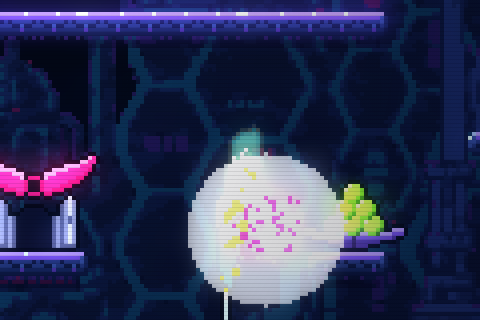
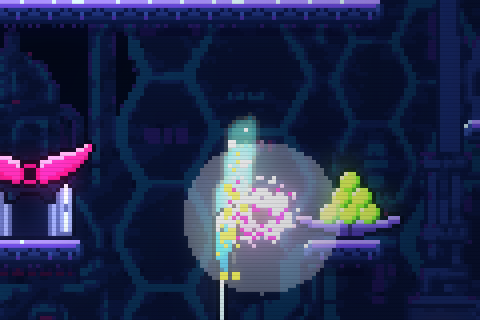
Killer Fuse: winning snail in front of its net, ending hexagon stays centred, Queen flare never a solid disc

diff --git a/games/killer-fuse/src/render/scene.ts b/games/killer-fuse/src/render/scene.ts
@@ -60,6 +60,7 @@ import {
 import {
   circlePoints,
   discHalfWidth,
+  flareAlpha,
   Ghosts,
   particleColor,
   RING_LIFE,
@@ -201,10 +202,13 @@ export class Scene {
     for (const gate of view.gates) this.gate(ctx, gate);
     for (const pile of view.piles) this.pile(ctx, pile);
     // The rider sits astride, its far leg behind the shell; a meal is half inside the mouth.
+    // The nets stand in front of the track, and the snail crawls into its basket; a snail that has won is shown
+    // in front of it, so the ending reads as the snail home and not as a net.
+    const home = view.winner?.kind === "snail" && !view.timeUp;
+    if (home) this.goals(ctx, frame);
     this.units(ctx, frame, (unit) => unit.eaten || unit.riding);
     this.snail(ctx, frame);
-    // The nets stand in front of the track: the snail crawls into its basket.
-    this.goals(ctx, frame);
+    if (!home) this.goals(ctx, frame);
     this.afterImages(ctx, frame);
     this.fallen(ctx, frame);
     this.units(ctx, frame, (unit) => !unit.eaten && !unit.riding);
@@ -961,8 +965,7 @@ export class Scene {
       // White that grows as it fades: a core for a clash, the whole sky round a dying Queen.
       const t = flare.age / flare.life;
       const radius = Math.max(1, Math.round(flare.radius * (0.25 + 0.75 * t)));
-      // Gone fast: what it lit up shows through before it has finished growing.
-      ctx.globalAlpha = (1 - t) ** 2;
+      ctx.globalAlpha = flareAlpha(flare.radius, t);
       ctx.fillStyle = "#ffffff";
       const x = Math.round(flare.x),
         y = Math.round(flare.y);

diff --git a/games/killer-fuse/src/render/hud.ts b/games/killer-fuse/src/render/hud.ts
@@ -5,13 +5,10 @@
  */
 import type { RoundView } from "../engine/index.js";
 import {
-  type Camera,
   hexHalfWidth,
   IRIS_RADIUS,
-  irisCentre,
   irisRadius,
-  project,
-  type Point,
+  STILL,
   victoryLines,
 } from "./hud-model.js";
 import { VIEW_HEIGHT, VIEW_WIDTH } from "./layout.js";
@@ -23,10 +20,6 @@ export interface HudFrame {
   readonly view: RoundView;
   /** Seconds into the ending, or null when there is none to draw: no winner yet, or the page shows its own. */
   readonly ending: number | null;
-  /** The camera the arena under this was drawn through. */
-  readonly camera: Camera;
-  /** The point of the arena that decided the round: the hexagon closes on it. */
-  readonly focus: Point;
 }
 
 /** What the HUD needs of the scene: its text and the colours and sizes of the art. */
@@ -66,8 +59,8 @@ export class Hud {
   ): void {
     const { view } = frame;
     const radius = irisRadius(age);
-    // The hexagon stays on what decided the round as the camera carries that to the middle of the screen.
-    const centre = irisCentre(project(frame.focus, frame.camera));
+    // The hexagon closes on the middle of the screen while the camera carries what decided the round there.
+    const centre = { x: STILL.x, y: STILL.y };
     const ramp = this.art.ramp(winner.team);
     for (let y = 0; y < VIEW_HEIGHT; y += 1) {
       const half = hexHalfWidth(radius, y - centre.y);

diff --git a/games/killer-fuse/tests/render-model.test.ts b/games/killer-fuse/tests/render-model.test.ts
@@ -19,8 +19,6 @@ import {
   hiveSheet,
   IRIS_RADIUS,
   IRIS_SECONDS,
-  IRIS_WORDS,
-  irisCentre,
   irisRadius,
   victoryFocus,
   victoryLines,
@@ -880,14 +878,6 @@ test("the iris is a hexagon that closes and stays on screen with its words", () 
   assert.ok(Math.abs(hexHalfWidth(40, reach) - 20) < 1e-9, "the flat top");
   assert.equal(hexHalfWidth(40, -reach - 0.01), 0);
   assert.equal(hexHalfWidth(40, 10), hexHalfWidth(40, -10));
-  assert.deepEqual(irisCentre({ x: 240, y: 135 }), { x: 240, y: 135 });
-  const corner = irisCentre({ x: 2, y: 3 });
-  assert.equal(corner.x, IRIS_RADIUS);
-  const tall = (IRIS_RADIUS * Math.sqrt(3)) / 2;
-  assert.equal(corner.y, Math.round(tall + IRIS_WORDS), "room for the title");
-  const far = irisCentre({ x: 900, y: 900 });
-  assert.equal(far.x, 480 - IRIS_RADIUS);
-  assert.ok(far.y + tall <= 270 - IRIS_WORDS + 9, "and for the line below");
 });
 
 test("the ending says who won and how", () => {

diff --git a/games/killer-fuse/src/render/hud-model.ts b/games/killer-fuse/src/render/hud-model.ts
@@ -242,20 +242,6 @@ export function hexHalfWidth(radius: number, dy: number): number {
   return Math.abs(dy) > reach ? 0 : radius - Math.abs(dy) / ROOT3;
 }
 
-/** Room kept above and below the closed hexagon for the two lines of words. */
-export const IRIS_WORDS = 28;
-
-/** The closed hexagon's middle: on the focus, moved only as far as it takes to keep it and its words on screen. */
-export function irisCentre(focus: Point): Point {
-  const reach = (IRIS_RADIUS * ROOT3) / 2;
-  const clamp = (value: number, low: number, high: number): number =>
-    Math.round(Math.max(low, Math.min(high, value)));
-  return {
-    x: clamp(focus.x, IRIS_RADIUS, VIEW_WIDTH - IRIS_RADIUS),
-    y: clamp(focus.y, reach + IRIS_WORDS, VIEW_HEIGHT - reach - IRIS_WORDS + 8),
-  };
-}
-
 /** The two lines of the ending: who won, and how. */
 export function victoryLines(
   winner: NonNullable<RoundView["winner"]>,

diff --git a/games/killer-fuse/src/render/particles.ts b/games/killer-fuse/src/render/particles.ts
@@ -349,6 +349,19 @@ export function easeOutBack(t: number, spring = 1.70158): number {
 }
 
 /** Half the width of a filled disc of radius `r`, `dy` rows from its middle; -1 outside it. */
+/** A flare wider than this is a sky-filling flash, never a solid disc. */
+export const FLARE_SOFT = 12,
+  FLARE_SOFT_PEAK = 0.5;
+
+/**
+ * How solid a flare is `t` of the way through its life: fading from its first frame, and a big one only ever half
+ * there, so what it lights up (a Queen's death) stays visible through it.
+ */
+export function flareAlpha(radius: number, t: number): number {
+  const left = Math.max(0, 1 - t);
+  return (radius > FLARE_SOFT ? FLARE_SOFT_PEAK : 1) * left * left;
+}
+
 export function discHalfWidth(r: number, dy: number): number {
   return Math.abs(dy) > r ? -1 : Math.round(Math.sqrt(r * r - dy * dy));
 }

diff --git a/games/killer-fuse/tests/render-timing.test.ts b/games/killer-fuse/tests/render-timing.test.ts
@@ -19,6 +19,8 @@ import {
   DIVE_COLORS,
   DIVE_STREAM,
   diveStream,
+  flareAlpha,
+  FLARE_SOFT_PEAK,
   EffectPool,
   fountainParticles,
   GHOST_EVERY,
@@ -259,4 +261,13 @@ test("the ending waits for a dead Queen's shake, then centres and grows to twice
     x: STILL.x + 20,
     y: STILL.y,
   });
+});
+
+test("a big flare is never a solid disc and fades from its first frame", () => {
+  assert.equal(flareAlpha(4, 0), 1, "a clash core starts solid");
+  assert.equal(flareAlpha(48, 0), FLARE_SOFT_PEAK);
+  assert.ok(flareAlpha(48, 0.1) < flareAlpha(48, 0));
+  assert.ok(flareAlpha(48, 0.5) < 0.15);
+  assert.equal(flareAlpha(48, 1), 0);
+  assert.equal(flareAlpha(48, 1.2), 0);
 });

diff --git a/games/killer-fuse/src/render/index.ts b/games/killer-fuse/src/render/index.ts
@@ -428,7 +428,7 @@ class Arena implements ArenaView {
         -offset.y,
       );
     low.setTransform(1, 0, 0, 1, 0, 0);
-    hud.draw(low, { view, ending, camera, focus });
+    hud.draw(low, { view, ending });
     // What the glow is made from: the finished picture with the things that would bloom too much held down.
     const source = this.glowSource.ctx;
     source.drawImage(this.low.canvas, 0, 0);
